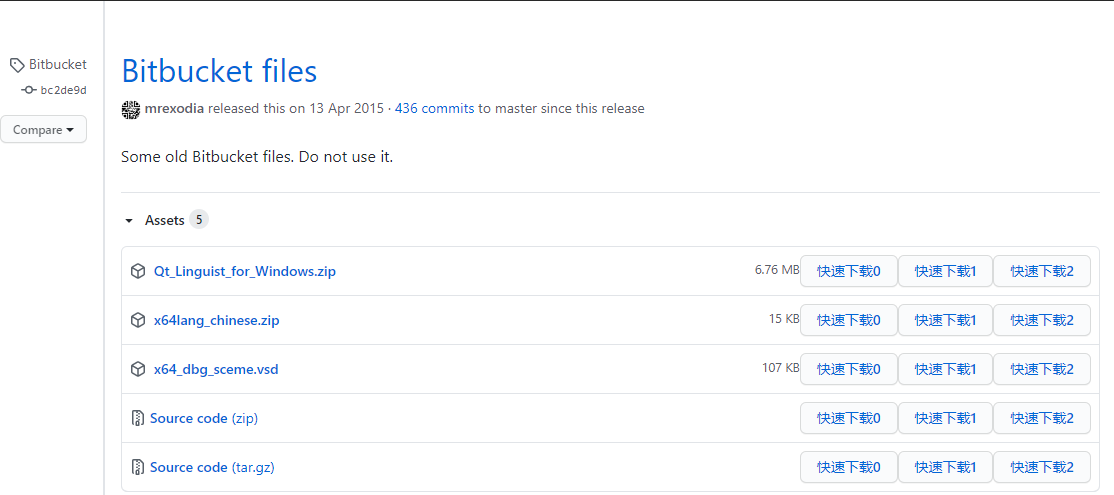
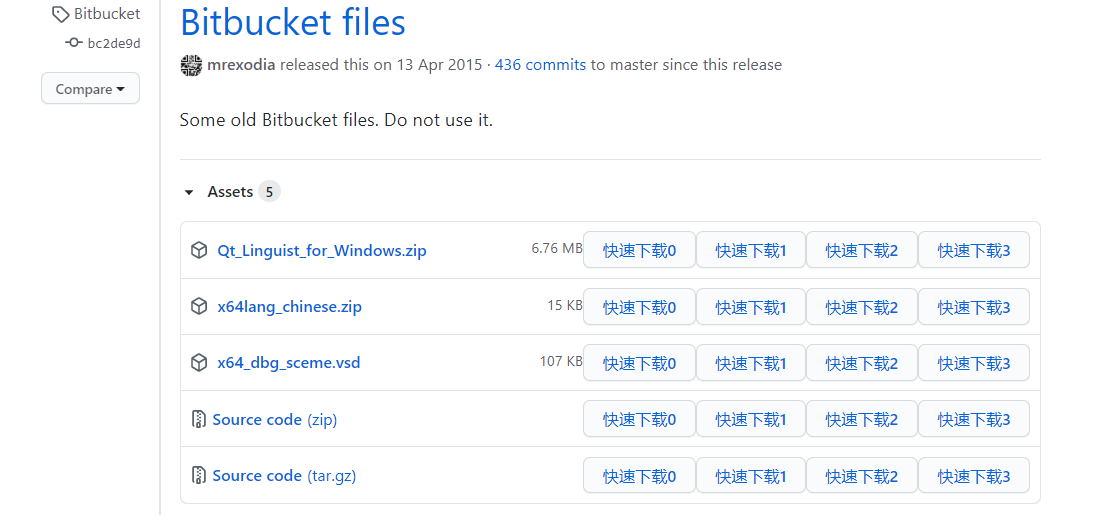
1.5.0

diff --git a/FastGithub.js b/FastGithub.js
@@ -11,7 +11,7 @@
 // @include *://github*
 // @include *://hub.fastgit.org/*
 // @require http://cdn.bootcss.com/jquery/1.8.3/jquery.min.js
-// @version 1.4.7
+// @version 1.5.0
 // @grant GM_addStyle
 // ==/UserScript==
 
@@ -27,18 +27,18 @@
   var mirror_url = new Array();
   mirror_url[0] = "https://github.com.cnpmjs.org/";
   mirror_url[1] = "https://hub.fastgit.org/";
-  mirror_url[2] = "https://github.wuyanzheshui.workers.dev/";
+  mirror_url[2] = "https://github.wuyanzheshui.workers.dev";
   mirror_url[3] = "https://github.bajins.com/";
-  mirror_url[4] = "https://download.fastgit.org/";
-  mirror_url[5] = "https://github.rc1844.workers.dev/";
+  mirror_url[4] = "https://download.fastgit.org";
+  mirror_url[5] = "https://github.rc1844.workers.dev";
   mirror_url[6] = "https://gitclone.com/github.com/";
   mirror_url[7] = "git@git.zhlh6.cn:";
   mirror_url[8] = "https://github-speedup.laiczhang.com/";
   //添加对应索引即可使用
-  var clone_set = [0, 1, 6, 7, 8];
-  var mirror_set = [0, 1, 2, 3, 5, 8];
-  var download_set = [2, 4, 5, 8];
-
+  var clone_set = [1, 8, 0, 6, 7];
+  var mirror_set = [1, 8, 0, 3, 2, 5];
+  var download_set = [4, 8, 2, 5];
+  var raw_set = [1, 8, 3, 2, 5];
   //其他
   var other_url = new Array();
   other_url = [{
@@ -93,7 +93,10 @@
   var str3 = window.location.pathname;
 
   //镜像列表
-  var info = `<details class="details-reset details-overlay mr-0 mb-0" id="mirror-menu">
+  // $("div.flex-auto.min-width-0.width-fit.mr-3")
+  $("h1.flex-wrap.break-word.text-normal")
+    .each(function () {
+      var info = `<details class="details-reset details-overlay mr-0 mb-0" id="mirror-menu">
   <summary class="btn  ml-2 btn-primary" data-hotkey="m" title="打开列表" aria-haspopup="menu" role="button">
     <span class="css-truncate-target" data-menu-button="">镜像网站</span>
     <span class="dropdown-caret"></span>
@@ -130,16 +133,14 @@
               style="padding: 4px;background-color: #ffcccc;color: #990000;border-top-left-radius: 3px;border-top-right-radius: 3px;"
               role="alert">请不要在镜像网站登录账号，若因此造成任何损失本人概不负责</div>`;
 
-  //克隆列表
-  for (let i in clone_set) {
-    info += `<div class="input-group">
-              <input type="text" class="form-control input-monospace input-sm" value="${
-      str1 + mirror_url[clone_set[i]] + str2
-      }" readonly="" data-autoselect="">
+      //克隆列表
+      for (let i in clone_set) {
+        info += `<div class="input-group">
+              <input type="text" class="form-control input-monospace input-sm" value="${str1 + mirror_url[clone_set[i]] + str2
+          }" readonly="" data-autoselect="">
               <div class="input-group-button">
-                <clipboard-copy value="${
-      str1 + mirror_url[clone_set[i]] + str2
-      }" class="btn btn-sm"><svg class="octicon octicon-clippy" viewBox="0 0 16 16" version="1.1" width="16"
+                <clipboard-copy value="${str1 + mirror_url[clone_set[i]] + str2
+          }" class="btn btn-sm"><svg class="octicon octicon-clippy" viewBox="0 0 16 16" version="1.1" width="16"
                     height="16" aria-hidden="true">
                     <path fill-rule="evenodd"
                       d="M5.75 1a.75.75 0 00-.75.75v3c0 .414.336.75.75.75h4.5a.75.75 0 00.75-.75v-3a.75.75 0 00-.75-.75h-4.5zm.75 3V2.5h3V4h-3zm-2.874-.467a.75.75 0 00-.752-1.298A1.75 1.75 0 002 3.75v9.5c0 .966.784 1.75 1.75 1.75h8.5A1.75 1.75 0 0014 13.25v-9.5a1.75 1.75 0 00-.874-1.515.75.75 0 10-.752 1.298.25.25 0 01.126.217v9.5a.25.25 0 01-.25.25h-8.5a.25.25 0 01-.25-.25v-9.5a.25.25 0 01.126-.217z">
@@ -147,14 +148,12 @@
                   </svg></clipboard-copy>
               </div>
             </div>`;
-  }
+      }
 
-  //浏览列表
-  for (let i in mirror_set) {
-    info += `<a class="SelectMenu-item" href="${
-      mirror_url[mirror_set[i]] + str3
-      }" target="_blank" role="menuitemradio" aria-checked="false" rel="nofollow" title="${
-      mirror_url[mirror_set[i]]}">
+      //浏览列表
+      for (let i in mirror_set) {
+        info += `<a class="SelectMenu-item" href="${mirror_url[mirror_set[i]] + str3
+          }" target="_blank" role="menuitemradio" aria-checked="false" rel="nofollow" title="${mirror_url[mirror_set[i]]}">
               <svg class="octicon octicon-check SelectMenu-icon SelectMenu-icon--check" viewBox="0 0 16 16"
                 version="1.1" width="16" height="16" aria-hidden="true">
                 <path fill-rule="evenodd"
@@ -163,9 +162,9 @@
               </svg>
               <span class="break-word">镜像浏览${i}</span>
             </a>`;
-  }
-  if (location.hostname != "github.com") {
-    info += `<a class="SelectMenu-item" href="https://github.com${str3}" target="_blank" role="menuitemradio"
+      }
+      if (location.hostname != "github.com") {
+        info += `<a class="SelectMenu-item" href="https://github.com${str3}" target="_blank" role="menuitemradio"
               aria-checked="false" rel="nofollow">
               <svg class="octicon octicon-check SelectMenu-icon SelectMenu-icon--check" viewBox="0 0 16 16"
                 version="1.1" width="16" height="16" aria-hidden="true">
@@ -175,18 +174,18 @@
               </svg>
               <span class="break-word">返回GitHub</span>
             </a>`;
-  }
+      }
 
-  info += `
+      info += `
           </div>
         </div>
         <div role="tabpanel" class="d-flex flex-column flex-auto overflow-auto" tabindex="0" hidden="">
           <div class="SelectMenu-list">
             `;
 
-  //其他列表
-  other_url.forEach((element) => {
-    info += `<a class="SelectMenu-item" href="${element.url}" target="_blank" 
+      //其他列表
+      other_url.forEach((element) => {
+        info += `<a class="SelectMenu-item" href="${element.url}" target="_blank" 
     title="${element.url}" role="menuitemradio" aria-checked="false"
               rel="nofollow">
               <span class="css-truncate css-truncate-overflow" style="text-align:center;">
@@ -194,59 +193,80 @@
               </span>
             </a>
             `;
-  });
-  info += `</div>
+      });
+      info += `</div>
         </div>
       </tab-container>
     </div>
   </details-menu>
 </details>`;
-  $("div.flex-auto.min-width-0.width-fit.mr-3").after(info);
+      $(this).append(info);
+    });
 
   //Fast Download ZIP
-  $("ul >li.Box-row.Box-row--hover-gray.p-0").each(function () {
-    var span = `<li class="Box-row p-0">`;
-    $(this).find("a[rel='nofollow']").each(function () {
-      var href = $(this).attr("href");
-      for (let i in download_set) {
-        span += `<a class="d-flex flex-items-center text-gray-dark text-bold no-underline Box-row Box-row--hover-gray p-3"
-    rel="nofollow" href="${mirror_url[download_set[i]] + href}" title="${mirror_url[download_set[i]]}">
-    <svg class="octicon octicon-file-zip mr-3" viewBox="0 0 16 16" version="1.1" width="16" height="16"
-      aria-hidden="true">
-      <path fill-rule="evenodd"
-        d="M3.5 1.75a.25.25 0 01.25-.25h3a.75.75 0 000 1.5h.5a.75.75 0 000-1.5h2.086a.25.25 0 01.177.073l2.914 2.914a.25.25 0 01.073.177v8.586a.25.25 0 01-.25.25h-.5a.75.75 0 000 1.5h.5A1.75 1.75 0 0014 13.25V4.664c0-.464-.184-.909-.513-1.237L10.573.513A1.75 1.75 0 009.336 0H3.75A1.75 1.75 0 002 1.75v11.5c0 .649.353 1.214.874 1.515a.75.75 0 10.752-1.298.25.25 0 01-.126-.217V1.75zM8.75 3a.75.75 0 000 1.5h.5a.75.75 0 000-1.5h-.5zM6 5.25a.75.75 0 01.75-.75h.5a.75.75 0 010 1.5h-.5A.75.75 0 016 5.25zm2 1.5A.75.75 0 018.75 6h.5a.75.75 0 010 1.5h-.5A.75.75 0 018 6.75zm-1.25.75a.75.75 0 000 1.5h.5a.75.75 0 000-1.5h-.5zM8 9.75A.75.75 0 018.75 9h.5a.75.75 0 010 1.5h-.5A.75.75 0 018 9.75zm-.75.75a1.75 1.75 0 00-1.75 1.75v3c0 .414.336.75.75.75h2.5a.75.75 0 00.75-.75v-3a1.75 1.75 0 00-1.75-1.75h-.5zM7 12.25a.25.25 0 01.25-.25h.5a.25.25 0 01.25.25v2.25H7v-2.25z">
-      </path>
-    </svg>Fast Download ZIP${i}</a>`;
+  $("a[data-open-app='link']").each(function () {
+    var span = $(`<li class="Box-row p-0"></li>`);
+    var href = $(this).attr("href");
+    var clone = $(this).clone().removeAttr("data-hydro-click data-hydro-click-hmac data-ga-click");
+    clone.addClass("Box-row Box-row--hover-gray");
+    for (const i in download_set) {
+      if (download_set.hasOwnProperty(i)) {
+        const element = download_set[i];
+        var span1 = clone.clone();
+        span1.attr({ "href": mirror_url[element] + href, "title": mirror_url[element] });
+        span1.html(span1.html().replace("Download ZIP", `Fast Download ZIP${i}`))
+        span = span.clone().append(span1)
       }
-    });
-    span += `</li>`;
-    $(this).after(span);
+    }
+    $(this).parent().after(span);
   });
 
   //Download Releases
   $(".Box--condensed").each(function () {
     $(this).find(".flex-items-center>a").each(function () {
       var href = $(this).attr("href");
-      $(this).next().append(DownloadHref(href));
+      var span = "";
       if (!IsPC()) {
-        $(".d-flex").removeClass("d-flex");
+        span = `<div style="text-align: right;">` + DownloadHref(href) + `</div>`
+      } else {
+        span = `<small style="text-align: right;">` + DownloadHref(href) + `</small>`
       }
+      $(this).next().append(span);
     });
-
+    if (!IsPC()) {
+      $(this).find(".d-flex").removeClass("d-flex");
+    }
     $(this).find(".d-block.Box-body>a").each(function () {
       var href = $(this).attr("href");
-      $(this).after(DownloadHref(href));
+      $(this).after(`<small style="text-align: right;">` + DownloadHref(href) + `</small>`);
       $(this).parent().addClass("d-flex  flex-justify-between");
     });
   });
 
+  // Raw
+  $("#raw-url").each(function () {
+    var href = $(this).attr("href");
+    var text = $(this).text()
+    for (const i in raw_set) {
+      if (raw_set.hasOwnProperty(i)) {
+        const element = raw_set[i];
+        var span = $(this).clone().removeAttr("id");
+        span.attr({
+          "href": mirror_url[element] + href,
+          "title": mirror_url[element]
+        })
+        span.text(text + i)
+        $(this).before(span);
+      }
+    }
+  });
+
   function DownloadHref(href) {
-    var span = `<small>`;
+    var span = "";
     for (let i in download_set) {
       span += `<a class="flex-1 btn btn-outline get-repo-btn" rel="nofollow"
       href="${mirror_url[download_set[i]] + href}" title="${mirror_url[download_set[i]]}">快速下载${i}</a>`;
     }
-    span += `</small>`;
     return span;
   }
 

diff --git a/README.md b/README.md
@@ -8,6 +8,8 @@
 
 该脚本在[GitHub 镜像加速下载-码酷博客-改](https://greasyfork.org/zh-CN/scripts/391911)基础上修改：
 
+## [[预览效果]](REANDME\README.md)
+
 下载安装地址：
 
 <https://raw.githubusercontent.com/RC1844/FastGithub/master/FastGithub.js>
@@ -15,14 +17,6 @@
 <https://download.fastgit.org/RC1844/FastGithub/master/FastGithub.js>(无法下载安装的请使用该链接)
 
 或：从[Greasyfork](https://greasyfork.org/zh-CN/scripts/397419)安装
-
-<figure class="half">
-    <img src="REANDME\releases2.png">
-    <img src="REANDME\releases1.png">
-</figure>
-<figure class="half">
-    <img src="REANDME\releases3.png">
-</figure>
 
 ## 已知的 GitHub 镜像(含失效站点)
 
@@ -43,13 +37,13 @@
 只需要将[基础教程](https://github.com/EtherDream/jsproxy/tree/master/cf-worker)中[index.js](https://raw.githubusercontent.com/EtherDream/jsproxy/master/cf-worker/index.js)的代码：
 
 ```js
-const ASSET_URL = 'https://etherdream.github.io/jsproxy'
+const ASSET_URL = "https://etherdream.github.io/jsproxy";
 ```
 
 改为
 
 ```js
-const ASSET_URL = 'https://github.com'
+const ASSET_URL = "https://github.com";
 ```
 
 即可
@@ -67,6 +61,13 @@ const ASSET_URL = 'https://github.com'
 [zmirror](https://github.com/aploium/zmirror)
 
 ## 更新日志
+
+v1.5.0
+
+1. 增加对 Raw 按钮的镜像
+2. 缩减 HTML 代码，使用 js 拷贝
+3. 更换镜像网站按钮的插入位置
+4. 调整插入次序，速度快的在先
 
 v1.4.5-v1.4.7
 

diff --git a/REANDME/README.md b/REANDME/README.md
@@ -1,0 +1,7 @@
+# 预览效果
+
+![REANDME1](releases1.png)
+![REANDME2](releases2.png)
+![REANDME3](releases3.png)
+![REANDME4](releases4.png)
+![REANDME5](releases5.png)
